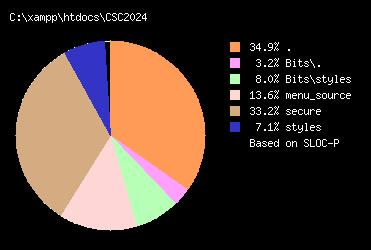
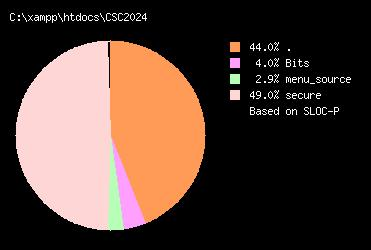
Customer charter edit page finished

diff --git a/LocMetrics.html b/LocMetrics.html
@@ -1,1 +1,1 @@
-<html xmlns="http:////www.w3.org//1999//xhtml" xml:lang="en" lang="en"><head><title></title><LINK REL=StyleSheet HREF="LocMetrics.css" TYPE="text/css" MEDIA=screen></head><body><img src="LocMetricsPie.jpg"/><p></p><TABLE CLASS="MYTABLE"><CAPTION CLASS="MYTABLE">Overall</CAPTION><THEAD ><TR CLASS="MYTABLE"><TH CLASS="MYTABLE">Symbol</TH><TH CLASS="MYTABLE">Count</TH><TH CLASS="MYTABLE">Definition</TH></TR></THEAD><TBODY><TR CLASS="MYTABLE"><TD CLASS="MYTABLEL">Source Files</TD><TD CLASS="MYTABLEL">36</TD><TD CLASS="MYTABLEL">Source Files</TD><TR CLASS="MYTABLE"><TD CLASS="MYTABLEL">Directories</TD><TD CLASS="MYTABLEL">13</TD><TD CLASS="MYTABLEL">Directories</TD><TR CLASS="MYTABLE"><TD CLASS="MYTABLEL">LOC</TD><TD CLASS="MYTABLEL">1914</TD><TD CLASS="MYTABLEL">Lines of Code</TD><TR CLASS="MYTABLE"><TD CLASS="MYTABLEL">BLOC</TD><TD CLASS="MYTABLEL">660</TD><TD CLASS="MYTABLEL">Blank Lines of Code</TD><TR CLASS="MYTABLE"><TD CLASS="MYTABLEL">SLOC-P</TD><TD CLASS="MYTABLEL">1246</TD><TD CLASS="MYTABLEL">Physical Executable Lines of Code</TD><TR CLASS="MYTABLE"><TD CLASS="MYTABLEL">SLOC-L </TD><TD CLASS="MYTABLEL">284</TD><TD CLASS="MYTABLEL">Logical Executable Lines of Code</TD><TR CLASS="MYTABLE"><TD CLASS="MYTABLEL">MVG</TD><TD CLASS="MYTABLEL">0</TD><TD CLASS="MYTABLEL">McCabe VG Complexity</TD><TR CLASS="MYTABLE"><TD CLASS="MYTABLEL">C&SLOC</TD><TD CLASS="MYTABLEL">10</TD><TD CLASS="MYTABLEL">Code and Comment Lines of Code</TD><TR CLASS="MYTABLE"><TD CLASS="MYTABLEL">CLOC</TD><TD CLASS="MYTABLEL">8</TD><TD CLASS="MYTABLEL">Comment Only Lines of Code</TD><TR CLASS="MYTABLE"><TD CLASS="MYTABLEL">CWORD</TD><TD CLASS="MYTABLEL">95</TD><TD CLASS="MYTABLEL">Commentary Words</TD><TR CLASS="MYTABLE"><TD CLASS="MYTABLEL">HCLOC</TD><TD CLASS="MYTABLEL">0</TD><TD CLASS="MYTABLEL">Header Comment Lines of Code</TD><TR CLASS="MYTABLE"><TD CLASS="MYTABLEL">HCWORD</TD><TD CLASS="MYTABLEL">1</TD><TD CLASS="MYTABLEL">Header Commentary Words</TD></TBODY></TABLE><p></p><TABLE CLASS="MYTABLE"><CAPTION CLASS="MYTABLE">C:\xampp\htdocs\CSC2024 - FOLDERS</CAPTION><THEAD ><TR CLASS="MYTABLE"><TH CLASS="MYTABLE">Folder</TH><TH CLASS="MYTABLE">Files</TH><TH CLASS="MYTABLE">LOC</TH><TH CLASS="MYTABLE">SLOC Physical</TH><TH CLASS="MYTABLE">SLOC Logical</TH><TH CLASS="MYTABLE">MVG</TH><TH CLASS="MYTABLE">BLOC</TH><TH CLASS="MYTABLE">C&SLOC</TH><TH CLASS="MYTABLE">CLOC</TH><TH CLASS="MYTABLE">CWORD</TH><TH CLASS="MYTABLE">HCLOC</TH><TH CLASS="MYTABLE">HCWORD</TH></TR></THEAD><TBODY><TR CLASS="MYTABLE"><TD CLASS="MYTABLEL">Total</TD><TD CLASS="MYTABLEL">36</TD><TD CLASS="MYTABLE">1914</TD><TD CLASS="MYTABLE">1246</TD><TD CLASS="MYTABLE">284</TD><TD CLASS="MYTABLE">0</TD><TD CLASS="MYTABLE">660</TD><TD CLASS="MYTABLE">10</TD><TD CLASS="MYTABLE">8</TD><TD CLASS="MYTABLE">95</TD><TD CLASS="MYTABLE">0</TD><TD CLASS="MYTABLE">1</TD><TR CLASS="MYTABLE"><TD CLASS="MYTABLEL">C:\xampp\htdocs\CSC2024</TD><TD CLASS="MYTABLEL">36</TD><TD CLASS="MYTABLE">1914</TD><TD CLASS="MYTABLE">1246</TD><TD CLASS="MYTABLE">284</TD><TD CLASS="MYTABLE">0</TD><TD CLASS="MYTABLE">660</TD><TD CLASS="MYTABLE">10</TD><TD CLASS="MYTABLE">8</TD><TD CLASS="MYTABLE">95</TD><TD CLASS="MYTABLE">0</TD><TD CLASS="MYTABLE">1</TD><TR CLASS="MYTABLE"><TD CLASS="MYTABLEL">C:\xampp\htdocs\CSC2024\Bits</TD><TD CLASS="MYTABLEL">3</TD><TD CLASS="MYTABLE">187</TD><TD CLASS="MYTABLE">140</TD><TD CLASS="MYTABLE">79</TD><TD CLASS="MYTABLE">0</TD><TD CLASS="MYTABLE">46</TD><TD CLASS="MYTABLE">0</TD><TD CLASS="MYTABLE">1</TD><TD CLASS="MYTABLE">3</TD><TD CLASS="MYTABLE">0</TD><TD CLASS="MYTABLE">0</TD><TR CLASS="MYTABLE"><TD CLASS="MYTABLEL">C:\xampp\htdocs\CSC2024\Bits\styles</TD><TD CLASS="MYTABLEL">2</TD><TD CLASS="MYTABLE">127</TD><TD CLASS="MYTABLE">100</TD><TD CLASS="MYTABLE">79</TD><TD CLASS="MYTABLE">0</TD><TD CLASS="MYTABLE">26</TD><TD CLASS="MYTABLE">0</TD><TD CLASS="MYTABLE">1</TD><TD CLASS="MYTABLE">3</TD><TD CLASS="MYTABLE">0</TD><TD CLASS="MYTABLE">0</TD><TR CLASS="MYTABLE"><TD CLASS="MYTABLEL">C:\xampp\htdocs\CSC2024\menu_source</TD><TD CLASS="MYTABLEL">2</TD><TD CLASS="MYTABLE">173</TD><TD CLASS="MYTABLE">169</TD><TD CLASS="MYTABLE">114</TD><TD CLASS="MYTABLE">0</TD><TD CLASS="MYTABLE">2</TD><TD CLASS="MYTABLE">3</TD><TD CLASS="MYTABLE">2</TD><TD CLASS="MYTABLE">9</TD><TD CLASS="MYTABLE">0</TD><TD CLASS="MYTABLE">1</TD><TR CLASS="MYTABLE"><TD CLASS="MYTABLEL">C:\xampp\htdocs\CSC2024\secure</TD><TD CLASS="MYTABLEL">13</TD><TD CLASS="MYTABLE">699</TD><TD CLASS="MYTABLE">414</TD><TD CLASS="MYTABLE">6</TD><TD CLASS="MYTABLE">0</TD><TD CLASS="MYTABLE">285</TD><TD CLASS="MYTABLE">1</TD><TD CLASS="MYTABLE">0</TD><TD CLASS="MYTABLE">1</TD><TD CLASS="MYTABLE">0</TD><TD CLASS="MYTABLE">0</TD><TR CLASS="MYTABLE"><TD CLASS="MYTABLEL">C:\xampp\htdocs\CSC2024\styles</TD><TD CLASS="MYTABLEL">1</TD><TD CLASS="MYTABLE">113</TD><TD CLASS="MYTABLE">88</TD><TD CLASS="MYTABLE">73</TD><TD CLASS="MYTABLE">0</TD><TD CLASS="MYTABLE">20</TD><TD CLASS="MYTABLE">5</TD><TD CLASS="MYTABLE">5</TD><TD CLASS="MYTABLE">81</TD><TD CLASS="MYTABLE">0</TD><TD CLASS="MYTABLE">0</TD></TBODY></TABLE><p></p><TABLE CLASS="MYTABLE"><CAPTION CLASS="MYTABLE">C:\xampp\htdocs\CSC2024 - FILES</CAPTION><THEAD ><TR CLASS="MYTABLE"><TH CLASS="MYTABLE">File</TH><TH CLASS="MYTABLE">LOC</TH><TH CLASS="MYTABLE">SLOC Physical</TH><TH CLASS="MYTABLE">SLOC Logical</TH><TH CLASS="MYTABLE">MVG</TH><TH CLASS="MYTABLE">BLOC</TH><TH CLASS="MYTABLE">C&SLOC</TH><TH CLASS="MYTABLE">CLOC</TH><TH CLASS="MYTABLE">CWORD</TH><TH CLASS="MYTABLE">HCLOC</TH><TH CLASS="MYTABLE">HCWORD</TH></TR></THEAD><TBODY><TR CLASS="MYTABLE"><TD CLASS="MYTABLEL">C:\xampp\htdocs\CSC2024\LocMetrics.html</TD><TD CLASS="MYTABLE">1</TD><TD CLASS="MYTABLE">1</TD><TD CLASS="MYTABLE">0</TD><TD CLASS="MYTABLE">0</TD><TD CLASS="MYTABLE">0</TD><TD CLASS="MYTABLE">0</TD><TD CLASS="MYTABLE">0</TD><TD CLASS="MYTABLE">0</TD><TD CLASS="MYTABLE">0</TD><TD CLASS="MYTABLE">0</TD><TR CLASS="MYTABLE"><TD CLASS="MYTABLEL">C:\xampp\htdocs\CSC2024\LocMetricsFunctions.html</TD><TD CLASS="MYTABLE">1</TD><TD CLASS="MYTABLE">1</TD><TD CLASS="MYTABLE">0</TD><TD CLASS="MYTABLE">0</TD><TD CLASS="MYTABLE">0</TD><TD CLASS="MYTABLE">0</TD><TD CLASS="MYTABLE">0</TD><TD CLASS="MYTABLE">0</TD><TD CLASS="MYTABLE">0</TD><TD CLASS="MYTABLE">0</TD><TR CLASS="MYTABLE"><TD CLASS="MYTABLEL">C:\xampp\htdocs\CSC2024\about.php</TD><TD CLASS="MYTABLE">50</TD><TD CLASS="MYTABLE">29</TD><TD CLASS="MYTABLE">0</TD><TD CLASS="MYTABLE">0</TD><TD CLASS="MYTABLE">21</TD><TD CLASS="MYTABLE">0</TD><TD CLASS="MYTABLE">0</TD><TD CLASS="MYTABLE">0</TD><TD CLASS="MYTABLE">0</TD><TD CLASS="MYTABLE">0</TD><TR CLASS="MYTABLE"><TD CLASS="MYTABLEL">C:\xampp\htdocs\CSC2024\company_history.php</TD><TD CLASS="MYTABLE">49</TD><TD CLASS="MYTABLE">29</TD><TD CLASS="MYTABLE">0</TD><TD CLASS="MYTABLE">0</TD><TD CLASS="MYTABLE">20</TD><TD CLASS="MYTABLE">0</TD><TD CLASS="MYTABLE">0</TD><TD CLASS="MYTABLE">0</TD><TD CLASS="MYTABLE">0</TD><TD CLASS="MYTABLE">0</TD><TR CLASS="MYTABLE"><TD CLASS="MYTABLEL">C:\xampp\htdocs\CSC2024\contact.php</TD><TD CLASS="MYTABLE">70</TD><TD CLASS="MYTABLE">39</TD><TD CLASS="MYTABLE">0</TD><TD CLASS="MYTABLE">0</TD><TD CLASS="MYTABLE">31</TD><TD CLASS="MYTABLE">0</TD><TD CLASS="MYTABLE">0</TD><TD CLASS="MYTABLE">0</TD><TD CLASS="MYTABLE">0</TD><TD CLASS="MYTABLE">0</TD><TR CLASS="MYTABLE"><TD CLASS="MYTABLEL">C:\xampp\htdocs\CSC2024\cust_charter.php</TD><TD CLASS="MYTABLE">71</TD><TD CLASS="MYTABLE">44</TD><TD CLASS="MYTABLE">0</TD><TD CLASS="MYTABLE">0</TD><TD CLASS="MYTABLE">27</TD><TD CLASS="MYTABLE">0</TD><TD CLASS="MYTABLE">0</TD><TD CLASS="MYTABLE">0</TD><TD CLASS="MYTABLE">0</TD><TD CLASS="MYTABLE">0</TD><TR CLASS="MYTABLE"><TD CLASS="MYTABLEL">C:\xampp\htdocs\CSC2024\desktops.php</TD><TD CLASS="MYTABLE">46</TD><TD CLASS="MYTABLE">25</TD><TD CLASS="MYTABLE">0</TD><TD CLASS="MYTABLE">0</TD><TD CLASS="MYTABLE">21</TD><TD CLASS="MYTABLE">0</TD><TD CLASS="MYTABLE">0</TD><TD CLASS="MYTABLE">0</TD><TD CLASS="MYTABLE">0</TD><TD CLASS="MYTABLE">0</TD><TR CLASS="MYTABLE"><TD CLASS="MYTABLEL">C:\xampp\htdocs\CSC2024\footer.php</TD><TD CLASS="MYTABLE">65</TD><TD CLASS="MYTABLE">23</TD><TD CLASS="MYTABLE">2</TD><TD CLASS="MYTABLE">0</TD><TD CLASS="MYTABLE">42</TD><TD CLASS="MYTABLE">0</TD><TD CLASS="MYTABLE">0</TD><TD CLASS="MYTABLE">0</TD><TD CLASS="MYTABLE">0</TD><TD CLASS="MYTABLE">0</TD><TR CLASS="MYTABLE"><TD CLASS="MYTABLEL">C:\xampp\htdocs\CSC2024\header.php</TD><TD CLASS="MYTABLE">24</TD><TD CLASS="MYTABLE">16</TD><TD CLASS="MYTABLE">0</TD><TD CLASS="MYTABLE">0</TD><TD CLASS="MYTABLE">8</TD><TD CLASS="MYTABLE">0</TD><TD CLASS="MYTABLE">0</TD><TD CLASS="MYTABLE">0</TD><TD CLASS="MYTABLE">0</TD><TD CLASS="MYTABLE">0</TD><TR CLASS="MYTABLE"><TD CLASS="MYTABLEL">C:\xampp\htdocs\CSC2024\index.php</TD><TD CLASS="MYTABLE">44</TD><TD CLASS="MYTABLE">27</TD><TD CLASS="MYTABLE">0</TD><TD CLASS="MYTABLE">0</TD><TD CLASS="MYTABLE">17</TD><TD CLASS="MYTABLE">0</TD><TD CLASS="MYTABLE">0</TD><TD CLASS="MYTABLE">0</TD><TD CLASS="MYTABLE">0</TD><TD CLASS="MYTABLE">0</TD><TR CLASS="MYTABLE"><TD CLASS="MYTABLEL">C:\xampp\htdocs\CSC2024\laptops.php</TD><TD CLASS="MYTABLE">46</TD><TD CLASS="MYTABLE">25</TD><TD CLASS="MYTABLE">0</TD><TD CLASS="MYTABLE">0</TD><TD CLASS="MYTABLE">21</TD><TD CLASS="MYTABLE">0</TD><TD CLASS="MYTABLE">0</TD><TD CLASS="MYTABLE">0</TD><TD CLASS="MYTABLE">0</TD><TD CLASS="MYTABLE">0</TD><TR CLASS="MYTABLE"><TD CLASS="MYTABLEL">C:\xampp\htdocs\CSC2024\login.php</TD><TD CLASS="MYTABLE">58</TD><TD CLASS="MYTABLE">34</TD><TD CLASS="MYTABLE">0</TD><TD CLASS="MYTABLE">0</TD><TD CLASS="MYTABLE">24</TD><TD CLASS="MYTABLE">0</TD><TD CLASS="MYTABLE">0</TD><TD CLASS="MYTABLE">0</TD><TD CLASS="MYTABLE">0</TD><TD CLASS="MYTABLE">0</TD><TR CLASS="MYTABLE"><TD CLASS="MYTABLEL">C:\xampp\htdocs\CSC2024\menu.php</TD><TD CLASS="MYTABLE">32</TD><TD CLASS="MYTABLE">30</TD><TD CLASS="MYTABLE">0</TD><TD CLASS="MYTABLE">0</TD><TD CLASS="MYTABLE">2</TD><TD CLASS="MYTABLE">1</TD><TD CLASS="MYTABLE">0</TD><TD CLASS="MYTABLE">1</TD><TD CLASS="MYTABLE">0</TD><TD CLASS="MYTABLE">0</TD><TR CLASS="MYTABLE"><TD CLASS="MYTABLEL">C:\xampp\htdocs\CSC2024\process_contact.php</TD><TD CLASS="MYTABLE">68</TD><TD CLASS="MYTABLE">42</TD><TD CLASS="MYTABLE">2</TD><TD CLASS="MYTABLE">0</TD><TD CLASS="MYTABLE">26</TD><TD CLASS="MYTABLE">0</TD><TD CLASS="MYTABLE">0</TD><TD CLASS="MYTABLE">0</TD><TD CLASS="MYTABLE">0</TD><TD CLASS="MYTABLE">0</TD><TR CLASS="MYTABLE"><TD CLASS="MYTABLEL">C:\xampp\htdocs\CSC2024\products.php</TD><TD CLASS="MYTABLE">48</TD><TD CLASS="MYTABLE">27</TD><TD CLASS="MYTABLE">0</TD><TD CLASS="MYTABLE">0</TD><TD CLASS="MYTABLE">21</TD><TD CLASS="MYTABLE">0</TD><TD CLASS="MYTABLE">0</TD><TD CLASS="MYTABLE">0</TD><TD CLASS="MYTABLE">0</TD><TD CLASS="MYTABLE">0</TD><TR CLASS="MYTABLE"><TD CLASS="MYTABLEL">C:\xampp\htdocs\CSC2024\thanks_contact.php</TD><TD CLASS="MYTABLE">68</TD><TD CLASS="MYTABLE">42</TD><TD CLASS="MYTABLE">2</TD><TD CLASS="MYTABLE">0</TD><TD CLASS="MYTABLE">26</TD><TD CLASS="MYTABLE">0</TD><TD CLASS="MYTABLE">0</TD><TD CLASS="MYTABLE">0</TD><TD CLASS="MYTABLE">0</TD><TD CLASS="MYTABLE">0</TD><TR CLASS="MYTABLE"><TD CLASS="MYTABLEL">C:\xampp\htdocs\CSC2024\LocMetrics.css</TD><TD CLASS="MYTABLE">1</TD><TD CLASS="MYTABLE">1</TD><TD CLASS="MYTABLE">6</TD><TD CLASS="MYTABLE">0</TD><TD CLASS="MYTABLE">0</TD><TD CLASS="MYTABLE">0</TD><TD CLASS="MYTABLE">0</TD><TD CLASS="MYTABLE">0</TD><TD CLASS="MYTABLE">0</TD><TD CLASS="MYTABLE">0</TD><TR CLASS="MYTABLE"><TD CLASS="MYTABLEL">C:\xampp\htdocs\CSC2024\Bits\index.html</TD><TD CLASS="MYTABLE">60</TD><TD CLASS="MYTABLE">40</TD><TD CLASS="MYTABLE">0</TD><TD CLASS="MYTABLE">0</TD><TD CLASS="MYTABLE">20</TD><TD CLASS="MYTABLE">0</TD><TD CLASS="MYTABLE">0</TD><TD CLASS="MYTABLE">0</TD><TD CLASS="MYTABLE">0</TD><TD CLASS="MYTABLE">0</TD><TR CLASS="MYTABLE"><TD CLASS="MYTABLEL">C:\xampp\htdocs\CSC2024\Bits\styles\printgui.css</TD><TD CLASS="MYTABLE">25</TD><TD CLASS="MYTABLE">16</TD><TD CLASS="MYTABLE">11</TD><TD CLASS="MYTABLE">0</TD><TD CLASS="MYTABLE">8</TD><TD CLASS="MYTABLE">0</TD><TD CLASS="MYTABLE">1</TD><TD CLASS="MYTABLE">3</TD><TD CLASS="MYTABLE">0</TD><TD CLASS="MYTABLE">0</TD><TR CLASS="MYTABLE"><TD CLASS="MYTABLEL">C:\xampp\htdocs\CSC2024\Bits\styles\ui.css</TD><TD CLASS="MYTABLE">102</TD><TD CLASS="MYTABLE">84</TD><TD CLASS="MYTABLE">68</TD><TD CLASS="MYTABLE">0</TD><TD CLASS="MYTABLE">18</TD><TD CLASS="MYTABLE">0</TD><TD CLASS="MYTABLE">0</TD><TD CLASS="MYTABLE">0</TD><TD CLASS="MYTABLE">0</TD><TD CLASS="MYTABLE">0</TD><TR CLASS="MYTABLE"><TD CLASS="MYTABLEL">C:\xampp\htdocs\CSC2024\menu_source\index.html</TD><TD CLASS="MYTABLE">29</TD><TD CLASS="MYTABLE">29</TD><TD CLASS="MYTABLE">0</TD><TD CLASS="MYTABLE">0</TD><TD CLASS="MYTABLE">0</TD><TD CLASS="MYTABLE">1</TD><TD CLASS="MYTABLE">0</TD><TD CLASS="MYTABLE">1</TD><TD CLASS="MYTABLE">0</TD><TD CLASS="MYTABLE">0</TD><TR CLASS="MYTABLE"><TD CLASS="MYTABLEL">C:\xampp\htdocs\CSC2024\menu_source\styles.css</TD><TD CLASS="MYTABLE">144</TD><TD CLASS="MYTABLE">140</TD><TD CLASS="MYTABLE">114</TD><TD CLASS="MYTABLE">0</TD><TD CLASS="MYTABLE">2</TD><TD CLASS="MYTABLE">2</TD><TD CLASS="MYTABLE">2</TD><TD CLASS="MYTABLE">8</TD><TD CLASS="MYTABLE">0</TD><TD CLASS="MYTABLE">1</TD><TR CLASS="MYTABLE"><TD CLASS="MYTABLEL">C:\xampp\htdocs\CSC2024\secure\about.php</TD><TD CLASS="MYTABLE">50</TD><TD CLASS="MYTABLE">29</TD><TD CLASS="MYTABLE">0</TD><TD CLASS="MYTABLE">0</TD><TD CLASS="MYTABLE">21</TD><TD CLASS="MYTABLE">0</TD><TD CLASS="MYTABLE">0</TD><TD CLASS="MYTABLE">0</TD><TD CLASS="MYTABLE">0</TD><TD CLASS="MYTABLE">0</TD><TR CLASS="MYTABLE"><TD CLASS="MYTABLEL">C:\xampp\htdocs\CSC2024\secure\company_history.php</TD><TD CLASS="MYTABLE">49</TD><TD CLASS="MYTABLE">29</TD><TD CLASS="MYTABLE">0</TD><TD CLASS="MYTABLE">0</TD><TD CLASS="MYTABLE">20</TD><TD CLASS="MYTABLE">0</TD><TD CLASS="MYTABLE">0</TD><TD CLASS="MYTABLE">0</TD><TD CLASS="MYTABLE">0</TD><TD CLASS="MYTABLE">0</TD><TR CLASS="MYTABLE"><TD CLASS="MYTABLEL">C:\xampp\htdocs\CSC2024\secure\contact.php</TD><TD CLASS="MYTABLE">68</TD><TD CLASS="MYTABLE">42</TD><TD CLASS="MYTABLE">2</TD><TD CLASS="MYTABLE">0</TD><TD CLASS="MYTABLE">26</TD><TD CLASS="MYTABLE">0</TD><TD CLASS="MYTABLE">0</TD><TD CLASS="MYTABLE">0</TD><TD CLASS="MYTABLE">0</TD><TD CLASS="MYTABLE">0</TD><TR CLASS="MYTABLE"><TD CLASS="MYTABLEL">C:\xampp\htdocs\CSC2024\secure\cust_charter.php</TD><TD CLASS="MYTABLE">44</TD><TD CLASS="MYTABLE">27</TD><TD CLASS="MYTABLE">0</TD><TD CLASS="MYTABLE">0</TD><TD CLASS="MYTABLE">17</TD><TD CLASS="MYTABLE">0</TD><TD CLASS="MYTABLE">0</TD><TD CLASS="MYTABLE">0</TD><TD CLASS="MYTABLE">0</TD><TD CLASS="MYTABLE">0</TD><TR CLASS="MYTABLE"><TD CLASS="MYTABLEL">C:\xampp\htdocs\CSC2024\secure\desktops.php</TD><TD CLASS="MYTABLE">48</TD><TD CLASS="MYTABLE">27</TD><TD CLASS="MYTABLE">0</TD><TD CLASS="MYTABLE">0</TD><TD CLASS="MYTABLE">21</TD><TD CLASS="MYTABLE">0</TD><TD CLASS="MYTABLE">0</TD><TD CLASS="MYTABLE">0</TD><TD CLASS="MYTABLE">0</TD><TD CLASS="MYTABLE">0</TD><TR CLASS="MYTABLE"><TD CLASS="MYTABLEL">C:\xampp\htdocs\CSC2024\secure\footer.php</TD><TD CLASS="MYTABLE">65</TD><TD CLASS="MYTABLE">23</TD><TD CLASS="MYTABLE">2</TD><TD CLASS="MYTABLE">0</TD><TD CLASS="MYTABLE">42</TD><TD CLASS="MYTABLE">0</TD><TD CLASS="MYTABLE">0</TD><TD CLASS="MYTABLE">0</TD><TD CLASS="MYTABLE">0</TD><TD CLASS="MYTABLE">0</TD><TR CLASS="MYTABLE"><TD CLASS="MYTABLEL">C:\xampp\htdocs\CSC2024\secure\header.php</TD><TD CLASS="MYTABLE">24</TD><TD CLASS="MYTABLE">16</TD><TD CLASS="MYTABLE">0</TD><TD CLASS="MYTABLE">0</TD><TD CLASS="MYTABLE">8</TD><TD CLASS="MYTABLE">0</TD><TD CLASS="MYTABLE">0</TD><TD CLASS="MYTABLE">0</TD><TD CLASS="MYTABLE">0</TD><TD CLASS="MYTABLE">0</TD><TR CLASS="MYTABLE"><TD CLASS="MYTABLEL">C:\xampp\htdocs\CSC2024\secure\index.php</TD><TD CLASS="MYTABLE">97</TD><TD CLASS="MYTABLE">61</TD><TD CLASS="MYTABLE">0</TD><TD CLASS="MYTABLE">0</TD><TD CLASS="MYTABLE">36</TD><TD CLASS="MYTABLE">0</TD><TD CLASS="MYTABLE">0</TD><TD CLASS="MYTABLE">0</TD><TD CLASS="MYTABLE">0</TD><TD CLASS="MYTABLE">0</TD><TR CLASS="MYTABLE"><TD CLASS="MYTABLEL">C:\xampp\htdocs\CSC2024\secure\laptops.php</TD><TD CLASS="MYTABLE">48</TD><TD CLASS="MYTABLE">27</TD><TD CLASS="MYTABLE">0</TD><TD CLASS="MYTABLE">0</TD><TD CLASS="MYTABLE">21</TD><TD CLASS="MYTABLE">0</TD><TD CLASS="MYTABLE">0</TD><TD CLASS="MYTABLE">0</TD><TD CLASS="MYTABLE">0</TD><TD CLASS="MYTABLE">0</TD><TR CLASS="MYTABLE"><TD CLASS="MYTABLEL">C:\xampp\htdocs\CSC2024\secure\login.php</TD><TD CLASS="MYTABLE">58</TD><TD CLASS="MYTABLE">34</TD><TD CLASS="MYTABLE">0</TD><TD CLASS="MYTABLE">0</TD><TD CLASS="MYTABLE">24</TD><TD CLASS="MYTABLE">0</TD><TD CLASS="MYTABLE">0</TD><TD CLASS="MYTABLE">0</TD><TD CLASS="MYTABLE">0</TD><TD CLASS="MYTABLE">0</TD><TR CLASS="MYTABLE"><TD CLASS="MYTABLEL">C:\xampp\htdocs\CSC2024\secure\menu.php</TD><TD CLASS="MYTABLE">32</TD><TD CLASS="MYTABLE">30</TD><TD CLASS="MYTABLE">0</TD><TD CLASS="MYTABLE">0</TD><TD CLASS="MYTABLE">2</TD><TD CLASS="MYTABLE">1</TD><TD CLASS="MYTABLE">0</TD><TD CLASS="MYTABLE">1</TD><TD CLASS="MYTABLE">0</TD><TD CLASS="MYTABLE">0</TD><TR CLASS="MYTABLE"><TD CLASS="MYTABLEL">C:\xampp\htdocs\CSC2024\secure\products.php</TD><TD CLASS="MYTABLE">48</TD><TD CLASS="MYTABLE">27</TD><TD CLASS="MYTABLE">0</TD><TD CLASS="MYTABLE">0</TD><TD CLASS="MYTABLE">21</TD><TD CLASS="MYTABLE">0</TD><TD CLASS="MYTABLE">0</TD><TD CLASS="MYTABLE">0</TD><TD CLASS="MYTABLE">0</TD><TD CLASS="MYTABLE">0</TD><TR CLASS="MYTABLE"><TD CLASS="MYTABLEL">C:\xampp\htdocs\CSC2024\secure\thanks_contact.php</TD><TD CLASS="MYTABLE">68</TD><TD CLASS="MYTABLE">42</TD><TD CLASS="MYTABLE">2</TD><TD CLASS="MYTABLE">0</TD><TD CLASS="MYTABLE">26</TD><TD CLASS="MYTABLE">0</TD><TD CLASS="MYTABLE">0</TD><TD CLASS="MYTABLE">0</TD><TD CLASS="MYTABLE">0</TD><TD CLASS="MYTABLE">0</TD><TR CLASS="MYTABLE"><TD CLASS="MYTABLEL">C:\xampp\htdocs\CSC2024\styles\css.css</TD><TD CLASS="MYTABLE">113</TD><TD CLASS="MYTABLE">88</TD><TD CLASS="MYTABLE">73</TD><TD CLASS="MYTABLE">0</TD><TD CLASS="MYTABLE">20</TD><TD CLASS="MYTABLE">5</TD><TD CLASS="MYTABLE">5</TD><TD CLASS="MYTABLE">81</TD><TD CLASS="MYTABLE">0</TD><TD CLASS="MYTABLE">0</TD></TBODY></TABLE><p></p></BODY></HTML>
+<html xmlns="http:////www.w3.org//1999//xhtml" xml:lang="en" lang="en"><head><title></title><LINK REL=StyleSheet HREF="LocMetrics.css" TYPE="text/css" MEDIA=screen></head><body><img src="LocMetricsPie.jpg"/><p></p><TABLE CLASS="MYTABLE"><CAPTION CLASS="MYTABLE">Overall</CAPTION><THEAD ><TR CLASS="MYTABLE"><TH CLASS="MYTABLE">Symbol</TH><TH CLASS="MYTABLE">Count</TH><TH CLASS="MYTABLE">Definition</TH></TR></THEAD><TBODY><TR CLASS="MYTABLE"><TD CLASS="MYTABLEL">Source Files</TD><TD CLASS="MYTABLEL">32</TD><TD CLASS="MYTABLEL">Source Files</TD><TR CLASS="MYTABLE"><TD CLASS="MYTABLEL">Directories</TD><TD CLASS="MYTABLEL">13</TD><TD CLASS="MYTABLEL">Directories</TD><TR CLASS="MYTABLE"><TD CLASS="MYTABLEL">LOC</TD><TD CLASS="MYTABLEL">1639</TD><TD CLASS="MYTABLEL">Lines of Code</TD><TR CLASS="MYTABLE"><TD CLASS="MYTABLEL">BLOC</TD><TD CLASS="MYTABLEL">651</TD><TD CLASS="MYTABLEL">Blank Lines of Code</TD><TR CLASS="MYTABLE"><TD CLASS="MYTABLEL">SLOC-P</TD><TD CLASS="MYTABLEL">988</TD><TD CLASS="MYTABLEL">Physical Executable Lines of Code</TD><TR CLASS="MYTABLE"><TD CLASS="MYTABLEL">SLOC-L </TD><TD CLASS="MYTABLEL">12</TD><TD CLASS="MYTABLEL">Logical Executable Lines of Code</TD><TR CLASS="MYTABLE"><TD CLASS="MYTABLEL">MVG</TD><TD CLASS="MYTABLEL">0</TD><TD CLASS="MYTABLEL">McCabe VG Complexity</TD><TR CLASS="MYTABLE"><TD CLASS="MYTABLEL">C&SLOC</TD><TD CLASS="MYTABLEL">3</TD><TD CLASS="MYTABLEL">Code and Comment Lines of Code</TD><TR CLASS="MYTABLE"><TD CLASS="MYTABLEL">CLOC</TD><TD CLASS="MYTABLEL">0</TD><TD CLASS="MYTABLEL">Comment Only Lines of Code</TD><TR CLASS="MYTABLE"><TD CLASS="MYTABLEL">CWORD</TD><TD CLASS="MYTABLEL">3</TD><TD CLASS="MYTABLEL">Commentary Words</TD><TR CLASS="MYTABLE"><TD CLASS="MYTABLEL">HCLOC</TD><TD CLASS="MYTABLEL">0</TD><TD CLASS="MYTABLEL">Header Comment Lines of Code</TD><TR CLASS="MYTABLE"><TD CLASS="MYTABLEL">HCWORD</TD><TD CLASS="MYTABLEL">0</TD><TD CLASS="MYTABLEL">Header Commentary Words</TD></TBODY></TABLE><p></p><TABLE CLASS="MYTABLE"><CAPTION CLASS="MYTABLE">C:\xampp\htdocs\CSC2024 - FOLDERS</CAPTION><THEAD ><TR CLASS="MYTABLE"><TH CLASS="MYTABLE">Folder</TH><TH CLASS="MYTABLE">Files</TH><TH CLASS="MYTABLE">LOC</TH><TH CLASS="MYTABLE">SLOC Physical</TH><TH CLASS="MYTABLE">SLOC Logical</TH><TH CLASS="MYTABLE">MVG</TH><TH CLASS="MYTABLE">BLOC</TH><TH CLASS="MYTABLE">C&SLOC</TH><TH CLASS="MYTABLE">CLOC</TH><TH CLASS="MYTABLE">CWORD</TH><TH CLASS="MYTABLE">HCLOC</TH><TH CLASS="MYTABLE">HCWORD</TH></TR></THEAD><TBODY><TR CLASS="MYTABLE"><TD CLASS="MYTABLEL">Total</TD><TD CLASS="MYTABLEL">32</TD><TD CLASS="MYTABLE">1639</TD><TD CLASS="MYTABLE">988</TD><TD CLASS="MYTABLE">12</TD><TD CLASS="MYTABLE">0</TD><TD CLASS="MYTABLE">651</TD><TD CLASS="MYTABLE">3</TD><TD CLASS="MYTABLE">0</TD><TD CLASS="MYTABLE">3</TD><TD CLASS="MYTABLE">0</TD><TD CLASS="MYTABLE">0</TD><TR CLASS="MYTABLE"><TD CLASS="MYTABLEL">C:\xampp\htdocs\CSC2024</TD><TD CLASS="MYTABLEL">32</TD><TD CLASS="MYTABLE">1639</TD><TD CLASS="MYTABLE">988</TD><TD CLASS="MYTABLE">12</TD><TD CLASS="MYTABLE">0</TD><TD CLASS="MYTABLE">651</TD><TD CLASS="MYTABLE">3</TD><TD CLASS="MYTABLE">0</TD><TD CLASS="MYTABLE">3</TD><TD CLASS="MYTABLE">0</TD><TD CLASS="MYTABLE">0</TD><TR CLASS="MYTABLE"><TD CLASS="MYTABLEL">C:\xampp\htdocs\CSC2024\Bits</TD><TD CLASS="MYTABLEL">1</TD><TD CLASS="MYTABLE">60</TD><TD CLASS="MYTABLE">40</TD><TD CLASS="MYTABLE">0</TD><TD CLASS="MYTABLE">0</TD><TD CLASS="MYTABLE">20</TD><TD CLASS="MYTABLE">0</TD><TD CLASS="MYTABLE">0</TD><TD CLASS="MYTABLE">0</TD><TD CLASS="MYTABLE">0</TD><TD CLASS="MYTABLE">0</TD><TR CLASS="MYTABLE"><TD CLASS="MYTABLEL">C:\xampp\htdocs\CSC2024\menu_source</TD><TD CLASS="MYTABLEL">1</TD><TD CLASS="MYTABLE">29</TD><TD CLASS="MYTABLE">29</TD><TD CLASS="MYTABLE">0</TD><TD CLASS="MYTABLE">0</TD><TD CLASS="MYTABLE">0</TD><TD CLASS="MYTABLE">1</TD><TD CLASS="MYTABLE">0</TD><TD CLASS="MYTABLE">1</TD><TD CLASS="MYTABLE">0</TD><TD CLASS="MYTABLE">0</TD><TR CLASS="MYTABLE"><TD CLASS="MYTABLEL">C:\xampp\htdocs\CSC2024\secure</TD><TD CLASS="MYTABLEL">13</TD><TD CLASS="MYTABLE">808</TD><TD CLASS="MYTABLE">484</TD><TD CLASS="MYTABLE">6</TD><TD CLASS="MYTABLE">0</TD><TD CLASS="MYTABLE">324</TD><TD CLASS="MYTABLE">1</TD><TD CLASS="MYTABLE">0</TD><TD CLASS="MYTABLE">1</TD><TD CLASS="MYTABLE">0</TD><TD CLASS="MYTABLE">0</TD></TBODY></TABLE><p></p><TABLE CLASS="MYTABLE"><CAPTION CLASS="MYTABLE">C:\xampp\htdocs\CSC2024 - FILES</CAPTION><THEAD ><TR CLASS="MYTABLE"><TH CLASS="MYTABLE">File</TH><TH CLASS="MYTABLE">LOC</TH><TH CLASS="MYTABLE">SLOC Physical</TH><TH CLASS="MYTABLE">SLOC Logical</TH><TH CLASS="MYTABLE">MVG</TH><TH CLASS="MYTABLE">BLOC</TH><TH CLASS="MYTABLE">C&SLOC</TH><TH CLASS="MYTABLE">CLOC</TH><TH CLASS="MYTABLE">CWORD</TH><TH CLASS="MYTABLE">HCLOC</TH><TH CLASS="MYTABLE">HCWORD</TH></TR></THEAD><TBODY><TR CLASS="MYTABLE"><TD CLASS="MYTABLEL">C:\xampp\htdocs\CSC2024\LocMetrics.html</TD><TD CLASS="MYTABLE">1</TD><TD CLASS="MYTABLE">1</TD><TD CLASS="MYTABLE">0</TD><TD CLASS="MYTABLE">0</TD><TD CLASS="MYTABLE">0</TD><TD CLASS="MYTABLE">0</TD><TD CLASS="MYTABLE">0</TD><TD CLASS="MYTABLE">0</TD><TD CLASS="MYTABLE">0</TD><TD CLASS="MYTABLE">0</TD><TR CLASS="MYTABLE"><TD CLASS="MYTABLEL">C:\xampp\htdocs\CSC2024\LocMetricsFunctions.html</TD><TD CLASS="MYTABLE">1</TD><TD CLASS="MYTABLE">1</TD><TD CLASS="MYTABLE">0</TD><TD CLASS="MYTABLE">0</TD><TD CLASS="MYTABLE">0</TD><TD CLASS="MYTABLE">0</TD><TD CLASS="MYTABLE">0</TD><TD CLASS="MYTABLE">0</TD><TD CLASS="MYTABLE">0</TD><TD CLASS="MYTABLE">0</TD><TR CLASS="MYTABLE"><TD CLASS="MYTABLEL">C:\xampp\htdocs\CSC2024\about.php</TD><TD CLASS="MYTABLE">50</TD><TD CLASS="MYTABLE">29</TD><TD CLASS="MYTABLE">0</TD><TD CLASS="MYTABLE">0</TD><TD CLASS="MYTABLE">21</TD><TD CLASS="MYTABLE">0</TD><TD CLASS="MYTABLE">0</TD><TD CLASS="MYTABLE">0</TD><TD CLASS="MYTABLE">0</TD><TD CLASS="MYTABLE">0</TD><TR CLASS="MYTABLE"><TD CLASS="MYTABLEL">C:\xampp\htdocs\CSC2024\company_history.php</TD><TD CLASS="MYTABLE">49</TD><TD CLASS="MYTABLE">29</TD><TD CLASS="MYTABLE">0</TD><TD CLASS="MYTABLE">0</TD><TD CLASS="MYTABLE">20</TD><TD CLASS="MYTABLE">0</TD><TD CLASS="MYTABLE">0</TD><TD CLASS="MYTABLE">0</TD><TD CLASS="MYTABLE">0</TD><TD CLASS="MYTABLE">0</TD><TR CLASS="MYTABLE"><TD CLASS="MYTABLEL">C:\xampp\htdocs\CSC2024\connect.php</TD><TD CLASS="MYTABLE">1</TD><TD CLASS="MYTABLE">1</TD><TD CLASS="MYTABLE">0</TD><TD CLASS="MYTABLE">0</TD><TD CLASS="MYTABLE">0</TD><TD CLASS="MYTABLE">0</TD><TD CLASS="MYTABLE">0</TD><TD CLASS="MYTABLE">0</TD><TD CLASS="MYTABLE">0</TD><TD CLASS="MYTABLE">0</TD><TR CLASS="MYTABLE"><TD CLASS="MYTABLEL">C:\xampp\htdocs\CSC2024\contact.php</TD><TD CLASS="MYTABLE">70</TD><TD CLASS="MYTABLE">39</TD><TD CLASS="MYTABLE">0</TD><TD CLASS="MYTABLE">0</TD><TD CLASS="MYTABLE">31</TD><TD CLASS="MYTABLE">0</TD><TD CLASS="MYTABLE">0</TD><TD CLASS="MYTABLE">0</TD><TD CLASS="MYTABLE">0</TD><TD CLASS="MYTABLE">0</TD><TR CLASS="MYTABLE"><TD CLASS="MYTABLEL">C:\xampp\htdocs\CSC2024\cust_charter.php</TD><TD CLASS="MYTABLE">71</TD><TD CLASS="MYTABLE">44</TD><TD CLASS="MYTABLE">0</TD><TD CLASS="MYTABLE">0</TD><TD CLASS="MYTABLE">27</TD><TD CLASS="MYTABLE">0</TD><TD CLASS="MYTABLE">0</TD><TD CLASS="MYTABLE">0</TD><TD CLASS="MYTABLE">0</TD><TD CLASS="MYTABLE">0</TD><TR CLASS="MYTABLE"><TD CLASS="MYTABLEL">C:\xampp\htdocs\CSC2024\desktops.php</TD><TD CLASS="MYTABLE">46</TD><TD CLASS="MYTABLE">25</TD><TD CLASS="MYTABLE">0</TD><TD CLASS="MYTABLE">0</TD><TD CLASS="MYTABLE">21</TD><TD CLASS="MYTABLE">0</TD><TD CLASS="MYTABLE">0</TD><TD CLASS="MYTABLE">0</TD><TD CLASS="MYTABLE">0</TD><TD CLASS="MYTABLE">0</TD><TR CLASS="MYTABLE"><TD CLASS="MYTABLEL">C:\xampp\htdocs\CSC2024\footer.php</TD><TD CLASS="MYTABLE">65</TD><TD CLASS="MYTABLE">23</TD><TD CLASS="MYTABLE">2</TD><TD CLASS="MYTABLE">0</TD><TD CLASS="MYTABLE">42</TD><TD CLASS="MYTABLE">0</TD><TD CLASS="MYTABLE">0</TD><TD CLASS="MYTABLE">0</TD><TD CLASS="MYTABLE">0</TD><TD CLASS="MYTABLE">0</TD><TR CLASS="MYTABLE"><TD CLASS="MYTABLEL">C:\xampp\htdocs\CSC2024\header.php</TD><TD CLASS="MYTABLE">24</TD><TD CLASS="MYTABLE">16</TD><TD CLASS="MYTABLE">0</TD><TD CLASS="MYTABLE">0</TD><TD CLASS="MYTABLE">8</TD><TD CLASS="MYTABLE">0</TD><TD CLASS="MYTABLE">0</TD><TD CLASS="MYTABLE">0</TD><TD CLASS="MYTABLE">0</TD><TD CLASS="MYTABLE">0</TD><TR CLASS="MYTABLE"><TD CLASS="MYTABLEL">C:\xampp\htdocs\CSC2024\index.php</TD><TD CLASS="MYTABLE">44</TD><TD CLASS="MYTABLE">27</TD><TD CLASS="MYTABLE">0</TD><TD CLASS="MYTABLE">0</TD><TD CLASS="MYTABLE">17</TD><TD CLASS="MYTABLE">0</TD><TD CLASS="MYTABLE">0</TD><TD CLASS="MYTABLE">0</TD><TD CLASS="MYTABLE">0</TD><TD CLASS="MYTABLE">0</TD><TR CLASS="MYTABLE"><TD CLASS="MYTABLEL">C:\xampp\htdocs\CSC2024\laptops.php</TD><TD CLASS="MYTABLE">46</TD><TD CLASS="MYTABLE">25</TD><TD CLASS="MYTABLE">0</TD><TD CLASS="MYTABLE">0</TD><TD CLASS="MYTABLE">21</TD><TD CLASS="MYTABLE">0</TD><TD CLASS="MYTABLE">0</TD><TD CLASS="MYTABLE">0</TD><TD CLASS="MYTABLE">0</TD><TD CLASS="MYTABLE">0</TD><TR CLASS="MYTABLE"><TD CLASS="MYTABLEL">C:\xampp\htdocs\CSC2024\login.php</TD><TD CLASS="MYTABLE">58</TD><TD CLASS="MYTABLE">34</TD><TD CLASS="MYTABLE">0</TD><TD CLASS="MYTABLE">0</TD><TD CLASS="MYTABLE">24</TD><TD CLASS="MYTABLE">0</TD><TD CLASS="MYTABLE">0</TD><TD CLASS="MYTABLE">0</TD><TD CLASS="MYTABLE">0</TD><TD CLASS="MYTABLE">0</TD><TR CLASS="MYTABLE"><TD CLASS="MYTABLEL">C:\xampp\htdocs\CSC2024\menu.php</TD><TD CLASS="MYTABLE">32</TD><TD CLASS="MYTABLE">30</TD><TD CLASS="MYTABLE">0</TD><TD CLASS="MYTABLE">0</TD><TD CLASS="MYTABLE">2</TD><TD CLASS="MYTABLE">1</TD><TD CLASS="MYTABLE">0</TD><TD CLASS="MYTABLE">1</TD><TD CLASS="MYTABLE">0</TD><TD CLASS="MYTABLE">0</TD><TR CLASS="MYTABLE"><TD CLASS="MYTABLEL">C:\xampp\htdocs\CSC2024\process_contact.php</TD><TD CLASS="MYTABLE">68</TD><TD CLASS="MYTABLE">42</TD><TD CLASS="MYTABLE">2</TD><TD CLASS="MYTABLE">0</TD><TD CLASS="MYTABLE">26</TD><TD CLASS="MYTABLE">0</TD><TD CLASS="MYTABLE">0</TD><TD CLASS="MYTABLE">0</TD><TD CLASS="MYTABLE">0</TD><TD CLASS="MYTABLE">0</TD><TR CLASS="MYTABLE"><TD CLASS="MYTABLEL">C:\xampp\htdocs\CSC2024\products.php</TD><TD CLASS="MYTABLE">48</TD><TD CLASS="MYTABLE">27</TD><TD CLASS="MYTABLE">0</TD><TD CLASS="MYTABLE">0</TD><TD CLASS="MYTABLE">21</TD><TD CLASS="MYTABLE">0</TD><TD CLASS="MYTABLE">0</TD><TD CLASS="MYTABLE">0</TD><TD CLASS="MYTABLE">0</TD><TD CLASS="MYTABLE">0</TD><TR CLASS="MYTABLE"><TD CLASS="MYTABLEL">C:\xampp\htdocs\CSC2024\thanks_contact.php</TD><TD CLASS="MYTABLE">68</TD><TD CLASS="MYTABLE">42</TD><TD CLASS="MYTABLE">2</TD><TD CLASS="MYTABLE">0</TD><TD CLASS="MYTABLE">26</TD><TD CLASS="MYTABLE">0</TD><TD CLASS="MYTABLE">0</TD><TD CLASS="MYTABLE">0</TD><TD CLASS="MYTABLE">0</TD><TD CLASS="MYTABLE">0</TD><TR CLASS="MYTABLE"><TD CLASS="MYTABLEL">C:\xampp\htdocs\CSC2024\Bits\index.html</TD><TD CLASS="MYTABLE">60</TD><TD CLASS="MYTABLE">40</TD><TD CLASS="MYTABLE">0</TD><TD CLASS="MYTABLE">0</TD><TD CLASS="MYTABLE">20</TD><TD CLASS="MYTABLE">0</TD><TD CLASS="MYTABLE">0</TD><TD CLASS="MYTABLE">0</TD><TD CLASS="MYTABLE">0</TD><TD CLASS="MYTABLE">0</TD><TR CLASS="MYTABLE"><TD CLASS="MYTABLEL">C:\xampp\htdocs\CSC2024\menu_source\index.html</TD><TD CLASS="MYTABLE">29</TD><TD CLASS="MYTABLE">29</TD><TD CLASS="MYTABLE">0</TD><TD CLASS="MYTABLE">0</TD><TD CLASS="MYTABLE">0</TD><TD CLASS="MYTABLE">1</TD><TD CLASS="MYTABLE">0</TD><TD CLASS="MYTABLE">1</TD><TD CLASS="MYTABLE">0</TD><TD CLASS="MYTABLE">0</TD><TR CLASS="MYTABLE"><TD CLASS="MYTABLEL">C:\xampp\htdocs\CSC2024\secure\about.php</TD><TD CLASS="MYTABLE">51</TD><TD CLASS="MYTABLE">34</TD><TD CLASS="MYTABLE">0</TD><TD CLASS="MYTABLE">0</TD><TD CLASS="MYTABLE">17</TD><TD CLASS="MYTABLE">0</TD><TD CLASS="MYTABLE">0</TD><TD CLASS="MYTABLE">0</TD><TD CLASS="MYTABLE">0</TD><TD CLASS="MYTABLE">0</TD><TR CLASS="MYTABLE"><TD CLASS="MYTABLEL">C:\xampp\htdocs\CSC2024\secure\company_history.php</TD><TD CLASS="MYTABLE">66</TD><TD CLASS="MYTABLE">42</TD><TD CLASS="MYTABLE">0</TD><TD CLASS="MYTABLE">0</TD><TD CLASS="MYTABLE">24</TD><TD CLASS="MYTABLE">0</TD><TD CLASS="MYTABLE">0</TD><TD CLASS="MYTABLE">0</TD><TD CLASS="MYTABLE">0</TD><TD CLASS="MYTABLE">0</TD><TR CLASS="MYTABLE"><TD CLASS="MYTABLEL">C:\xampp\htdocs\CSC2024\secure\contact.php</TD><TD CLASS="MYTABLE">68</TD><TD CLASS="MYTABLE">42</TD><TD CLASS="MYTABLE">2</TD><TD CLASS="MYTABLE">0</TD><TD CLASS="MYTABLE">26</TD><TD CLASS="MYTABLE">0</TD><TD CLASS="MYTABLE">0</TD><TD CLASS="MYTABLE">0</TD><TD CLASS="MYTABLE">0</TD><TD CLASS="MYTABLE">0</TD><TR CLASS="MYTABLE"><TD CLASS="MYTABLEL">C:\xampp\htdocs\CSC2024\secure\cust_charter.php</TD><TD CLASS="MYTABLE">131</TD><TD CLASS="MYTABLE">76</TD><TD CLASS="MYTABLE">0</TD><TD CLASS="MYTABLE">0</TD><TD CLASS="MYTABLE">55</TD><TD CLASS="MYTABLE">0</TD><TD CLASS="MYTABLE">0</TD><TD CLASS="MYTABLE">0</TD><TD CLASS="MYTABLE">0</TD><TD CLASS="MYTABLE">0</TD><TR CLASS="MYTABLE"><TD CLASS="MYTABLEL">C:\xampp\htdocs\CSC2024\secure\desktops.php</TD><TD CLASS="MYTABLE">46</TD><TD CLASS="MYTABLE">25</TD><TD CLASS="MYTABLE">0</TD><TD CLASS="MYTABLE">0</TD><TD CLASS="MYTABLE">21</TD><TD CLASS="MYTABLE">0</TD><TD CLASS="MYTABLE">0</TD><TD CLASS="MYTABLE">0</TD><TD CLASS="MYTABLE">0</TD><TD CLASS="MYTABLE">0</TD><TR CLASS="MYTABLE"><TD CLASS="MYTABLEL">C:\xampp\htdocs\CSC2024\secure\footer.php</TD><TD CLASS="MYTABLE">65</TD><TD CLASS="MYTABLE">23</TD><TD CLASS="MYTABLE">2</TD><TD CLASS="MYTABLE">0</TD><TD CLASS="MYTABLE">42</TD><TD CLASS="MYTABLE">0</TD><TD CLASS="MYTABLE">0</TD><TD CLASS="MYTABLE">0</TD><TD CLASS="MYTABLE">0</TD><TD CLASS="MYTABLE">0</TD><TR CLASS="MYTABLE"><TD CLASS="MYTABLEL">C:\xampp\htdocs\CSC2024\secure\header.php</TD><TD CLASS="MYTABLE">24</TD><TD CLASS="MYTABLE">16</TD><TD CLASS="MYTABLE">0</TD><TD CLASS="MYTABLE">0</TD><TD CLASS="MYTABLE">8</TD><TD CLASS="MYTABLE">0</TD><TD CLASS="MYTABLE">0</TD><TD CLASS="MYTABLE">0</TD><TD CLASS="MYTABLE">0</TD><TD CLASS="MYTABLE">0</TD><TR CLASS="MYTABLE"><TD CLASS="MYTABLEL">C:\xampp\htdocs\CSC2024\secure\index.php</TD><TD CLASS="MYTABLE">97</TD><TD CLASS="MYTABLE">61</TD><TD CLASS="MYTABLE">0</TD><TD CLASS="MYTABLE">0</TD><TD CLASS="MYTABLE">36</TD><TD CLASS="MYTABLE">0</TD><TD CLASS="MYTABLE">0</TD><TD CLASS="MYTABLE">0</TD><TD CLASS="MYTABLE">0</TD><TD CLASS="MYTABLE">0</TD><TR CLASS="MYTABLE"><TD CLASS="MYTABLEL">C:\xampp\htdocs\CSC2024\secure\laptops.php</TD><TD CLASS="MYTABLE">46</TD><TD CLASS="MYTABLE">25</TD><TD CLASS="MYTABLE">0</TD><TD CLASS="MYTABLE">0</TD><TD CLASS="MYTABLE">21</TD><TD CLASS="MYTABLE">0</TD><TD CLASS="MYTABLE">0</TD><TD CLASS="MYTABLE">0</TD><TD CLASS="MYTABLE">0</TD><TD CLASS="MYTABLE">0</TD><TR CLASS="MYTABLE"><TD CLASS="MYTABLEL">C:\xampp\htdocs\CSC2024\secure\login.php</TD><TD CLASS="MYTABLE">58</TD><TD CLASS="MYTABLE">34</TD><TD CLASS="MYTABLE">0</TD><TD CLASS="MYTABLE">0</TD><TD CLASS="MYTABLE">24</TD><TD CLASS="MYTABLE">0</TD><TD CLASS="MYTABLE">0</TD><TD CLASS="MYTABLE">0</TD><TD CLASS="MYTABLE">0</TD><TD CLASS="MYTABLE">0</TD><TR CLASS="MYTABLE"><TD CLASS="MYTABLEL">C:\xampp\htdocs\CSC2024\secure\menu.php</TD><TD CLASS="MYTABLE">40</TD><TD CLASS="MYTABLE">37</TD><TD CLASS="MYTABLE">0</TD><TD CLASS="MYTABLE">0</TD><TD CLASS="MYTABLE">3</TD><TD CLASS="MYTABLE">1</TD><TD CLASS="MYTABLE">0</TD><TD CLASS="MYTABLE">1</TD><TD CLASS="MYTABLE">0</TD><TD CLASS="MYTABLE">0</TD><TR CLASS="MYTABLE"><TD CLASS="MYTABLEL">C:\xampp\htdocs\CSC2024\secure\products.php</TD><TD CLASS="MYTABLE">48</TD><TD CLASS="MYTABLE">27</TD><TD CLASS="MYTABLE">0</TD><TD CLASS="MYTABLE">0</TD><TD CLASS="MYTABLE">21</TD><TD CLASS="MYTABLE">0</TD><TD CLASS="MYTABLE">0</TD><TD CLASS="MYTABLE">0</TD><TD CLASS="MYTABLE">0</TD><TD CLASS="MYTABLE">0</TD><TR CLASS="MYTABLE"><TD CLASS="MYTABLEL">C:\xampp\htdocs\CSC2024\secure\thanks_contact.php</TD><TD CLASS="MYTABLE">68</TD><TD CLASS="MYTABLE">42</TD><TD CLASS="MYTABLE">2</TD><TD CLASS="MYTABLE">0</TD><TD CLASS="MYTABLE">26</TD><TD CLASS="MYTABLE">0</TD><TD CLASS="MYTABLE">0</TD><TD CLASS="MYTABLE">0</TD><TD CLASS="MYTABLE">0</TD><TD CLASS="MYTABLE">0</TD></TBODY></TABLE><p></p></BODY></HTML>

diff --git a/secure/cust_charter.php b/secure/cust_charter.php
@@ -65,21 +65,68 @@
 
 </textarea>
 
-<h2 style="margin-left:10px" >2. Prompt and Clear Communication </h2>
+<br>
+<br>
+
+<strong>Title: </strong><input type="text" style="width:300px" value="2. Prompt and Clear Communication">
 		
-	    <p style="margin-left:10px">Your PC PAL Engineers understand the importance of answering your call and aim to answer all calls within 5 rings.
-	     If we are unable to answer immediately (as we may be speaking to another customer), then we will return your call within the hour. 
-	    We will also provide prompt replies via email.</p>
+			<br>
+		<br>
+		
+	<strong>Content: </strong>
+	
+	<br>
+	<br>
+
+		
+	 	<textarea cols="80">
+	 	Raymond's PC's staffunderstand the importance of answering your call and aim to answer all calls within 5 rings.
+	    If we are unable to answer immediately (as we may be speaking to another customer), then we will return your call within the hour. 
+	    We will also provide prompt replies via email.
+	    </textarea>
 	    
-	    <h2 style="margin-left:10px" >3. Clear and Simple Pricing</h2>
-		
-	    <p style="margin-left:10px">Your PC PAL Engineers aim to provide clear pricing information before commencing any work for you and will provide 
-	    a fixed price for the supply of new or replacement spare parts in advance for your authorisation.</p>
+	    <br>
+	    <br>
 	    
-	     <h2 style="margin-left:10px" >4. Payment and Receipts</h2>
+
+<strong>Title: </strong><input type="text" style="width:300px" value="3. Clear and Simple Pricing">
 		
-	    <p style="margin-left:10px">Your PC PAL Engineers aim to ensure we provide convenient payment methods including Cash, Company Cheque, Debit and Credit cards.
-	     Payments will be taken via our secure website and a full receipt or invoice will be provided..</p>
+			<br>
+		<br>
+		
+	<strong>Content: </strong>
+	
+	<br>
+	<br>
+	    		
+	<textarea cols="80">
+	
+	"Raymond's PC's aim to provide clear pricing information before commencing any work for you and will provide 
+	 a fixed price for the supply of new or replacement spare parts in advance for your authorisation.
+	
+ </textarea>
+	    
+<br>
+<br>
+
+<strong>Title: </strong><input type="text" style="width:300px" value="4. Payment and Receipts">
+		
+			<br>
+		<br>
+		
+	<strong>Content: </strong>
+	
+	<br>
+	<br>
+	    		
+	<textarea cols="80">
+			
+			
+	Raymond's PC's aim to ensure we provide convenient payment methods including Cash, Company Cheque, Debit and Credit cards.
+	    
+	Payments will be taken via our secure website and a full receipt or invoice will be provided
+	
+	</textarea>
 
 
 
